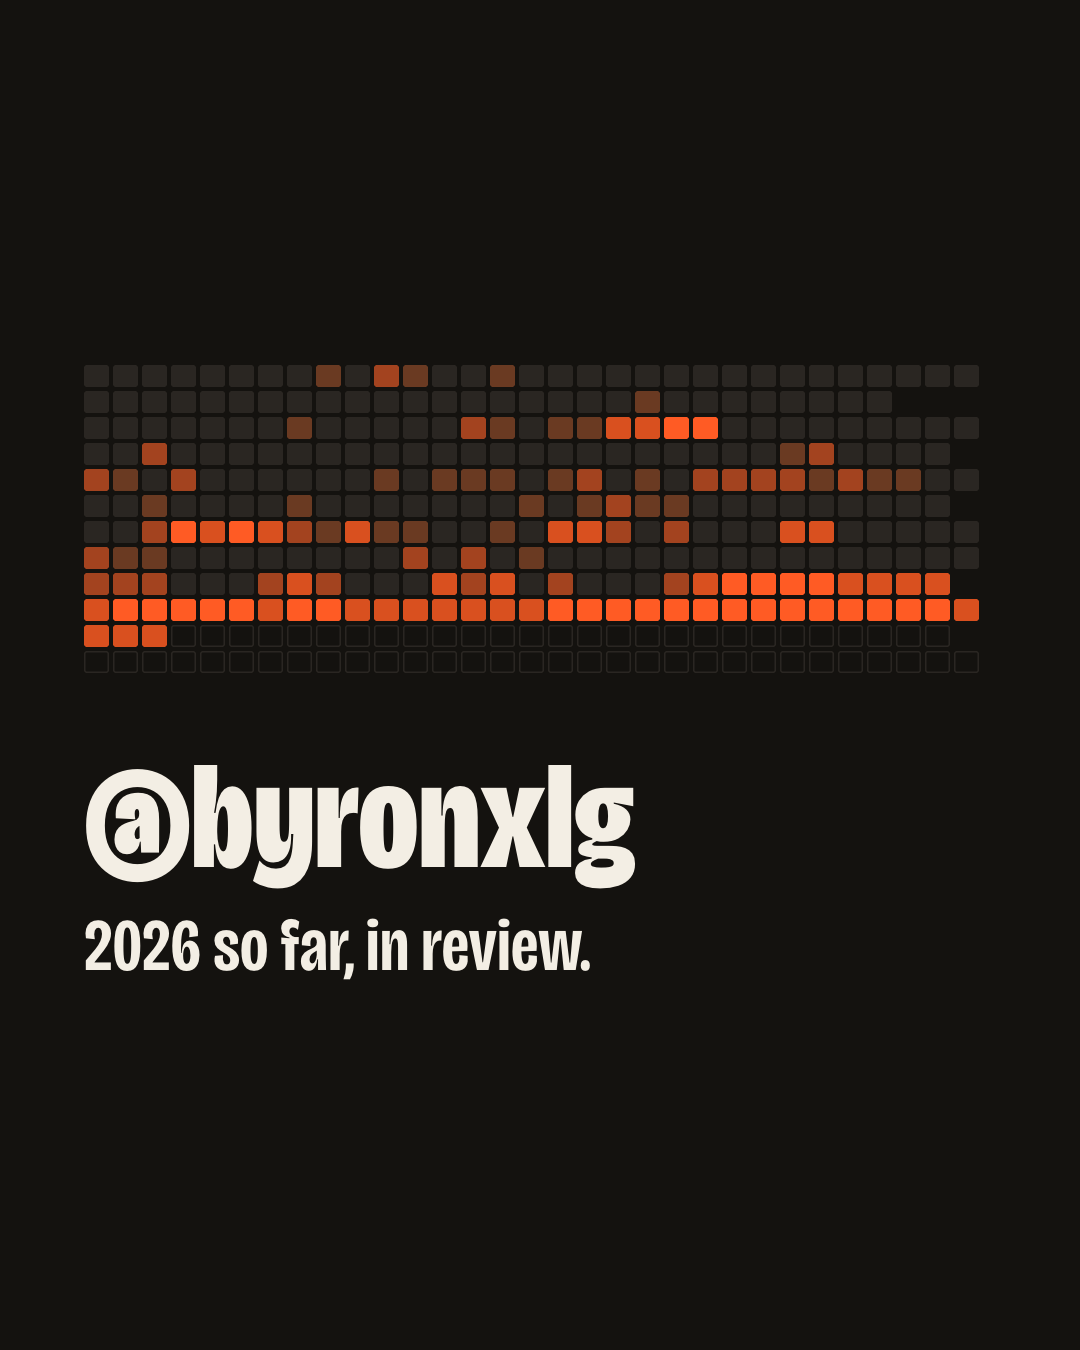
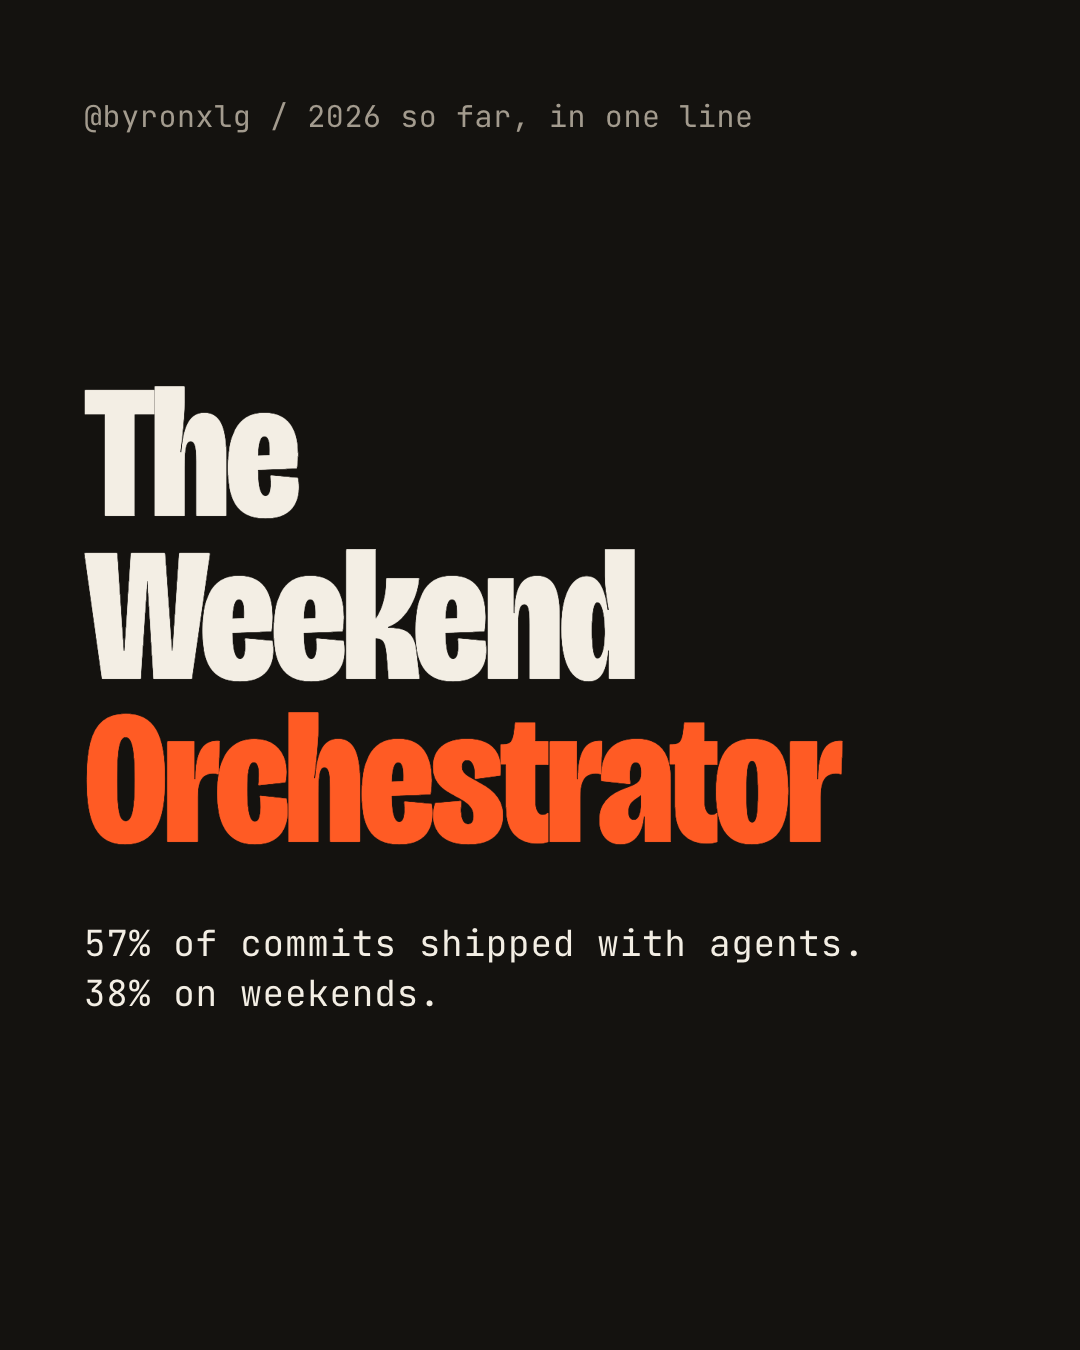
v5: thumbnail is the identity (option A) (#4)
build_thumbnail renders the identity beat as the cover: mono kicker
"@user / <year>, in one line", the archetype name one word a line in
condensed Bricolage with the last word in --signal, and the reason as
one stat a line in mono ink. Title shrinks to fit 912 px for long names.
Falls back to the close still when there is no identity beat. Example
thumbnail regenerated.

diff --git a/skills/github-year-in-review/assets/template.html b/skills/github-year-in-review/assets/template.html
@@ -558,6 +558,34 @@
       .thumb .stack {
         flex: none;
       }
+      /* thumbnail from the identity beat: kicker at the top, the name and its stats centred */
+      .thumb .inner.tid {
+        padding: 96px 84px;
+        justify-content: flex-start;
+      }
+      .tid .sp {
+        flex: 1;
+      }
+      .tid .tk {
+        font-size: 30px;
+        color: var(--muted);
+        letter-spacing: 0.02em;
+      }
+      .tid .tt {
+        font-family: "Bricolage", sans-serif;
+        font-weight: 800;
+        font-stretch: 75%;
+        line-height: 0.86;
+        letter-spacing: -0.02em;
+        white-space: nowrap;
+      }
+      .tid .ts {
+        margin-top: 56px;
+        font-size: 36px;
+        line-height: 1.4;
+        letter-spacing: 0.02em;
+        color: var(--ink);
+      }
     </style>
   </head>
   <body>

diff --git a/skills/github-year-in-review/scripts/build.py b/skills/github-year-in-review/scripts/build.py
@@ -683,20 +683,74 @@ def build(story: dict, out: Path, music: Path | None, cues: Path | None, directi
 
 
 THUMB_SECONDS = 1.0
+THUMB_TITLE = 190      # display size of the identity title on the thumbnail, px
+THUMB_WIDTH = 912      # 1080 less 84 px each side
+THUMB_EM = 0.36        # Bricolage 800 at 75% stretch: average advance per character, em (measured 0.33)
+
+
+def title_lines(name: str, max_lines: int = 5) -> list[str]:
+    """The identity name as display lines: one word a line ("The / Weekend / Orchestrator").
+    Past max_lines, the words before the last are packed two to a line; the last word always
+    stands alone so it can carry the signal colour."""
+    words = name.split()
+    if len(words) <= max_lines:
+        return words
+    head, last = words[:-1], words[-1]
+    return [" ".join(head[i:i + 2]) for i in range(0, len(head), 2)] + [last]
+
+
+def title_size(lines: list[str], base: int = THUMB_TITLE, width: int = THUMB_WIDTH) -> int:
+    """Largest size up to base at which the longest line fits width on one line."""
+    longest = max((len(x) for x in lines), default=1)
+    return min(base, int(width / (THUMB_EM * longest)))
+
+
+def stat_lines(reason: str) -> list[str]:
+    """The identity reason as one sentence a stat: "57% of commits shipped with agents, 38% of
+    commits on weekends." -> ["57% of commits shipped with agents.", "38% on weekends."]
+    (a repeated "of commits" is dropped after the first line)."""
+    parts = [x.strip().rstrip(".") for x in reason.split(", ") if x.strip().rstrip(".")]
+    out, seen = [], False
+    for x in parts:
+        if seen:
+            x = x.replace(" of commits", "", 1)
+        seen = seen or " of commits" in x
+        out.append(x[0].upper() + x[1:] + ".")
+    return out
+
+
+def thumb_identity_html(b: dict, story: dict) -> str:
+    """The thumbnail cover from the identity beat: mono kicker at the top ("@user / <year>, in
+    one line"), the name huge in condensed Bricolage with its last word in --signal, then the
+    stats behind it in mono ink, vertically centred. No label, counter, rail or CTA."""
+    lines = title_lines(b["name"])
+    title = "<br>".join(E(x) for x in lines[:-1])
+    title += ("<br>" if title else "") + f'<span class="signal">{E(lines[-1])}</span>'
+    stats = "<br>".join(E(x) for x in stat_lines(b.get("reason", "")))
+    return (f'<div class="inner tid"><div class="tk">{E("@" + story["user"])} / {E(b["label"])}</div>'
+            f'<div class="sp"></div><div class="tt" style="font-size:{title_size(lines)}px">{title}</div>'
+            + (f'<div class="ts">{stats}</div>' if stats else "") + '<div class="sp"></div></div>')
 
 
 def build_thumbnail(story: dict, out: Path, tpl: str) -> Path:
-    """<out>/thumbnail/: a one-second, motionless composition of the close (year grid, handle,
-    "<year>, in review.") with no label, slide counter, rail or CTA. Snapshot it to thumbnail.png."""
+    """<out>/thumbnail/: a one-second, motionless cover with no label, slide counter, rail or
+    CTA. Made from the identity beat ("The Weekend Orchestrator" and the stats behind it); a
+    story without one falls back to the close (year grid, handle, "<year>, in review.").
+    Snapshot it to thumbnail.png."""
+    ident = next((b for b in story["beats"] if b["id"] == "identity" and b.get("name")), None)
     close = next((b for b in story["beats"] if b["id"] == "close"), None)
-    if close is None:
-        raise ValueError("story has no close beat to make a thumbnail from")
+    if ident is None and close is None:
+        raise ValueError("story has no identity or close beat to make a thumbnail from")
     comp = out / "thumbnail"
     (comp / "assets" / "fonts").mkdir(parents=True, exist_ok=True)
     for f in (ASSETS / "fonts").glob("*.ttf"):
         shutil.copy(f, comp / "assets" / "fonts" / f.name)
-    scene = (f'<section id="s-close" class="clip scene" data-start="0" data-duration="{THUMB_SECONDS}" '
-             f'data-track-index="1">{scene_html(close, story, len(story["beats"]), thumb=True)}</section>')
+    if ident is not None:
+        sid, body = "identity", thumb_identity_html(ident, story)
+    else:
+        sid, body = "close", scene_html(close, story, len(story["beats"]), thumb=True)
+    scene = (f'<section id="s-{sid}" class="clip scene" data-start="0" data-duration="{THUMB_SECONDS}" '
+             f'data-track-index="1">{body}</section>')
     page = re.sub(r"<!--rail-->.*?<!--/rail-->", "", tpl, flags=re.S)
     page = (page.replace("__DURATION__", str(THUMB_SECONDS))
             .replace("__ROOT_CLASS__", "thumb")

diff --git a/tests/test_scripts.py b/tests/test_scripts.py
@@ -222,6 +222,58 @@ class Story(unittest.TestCase):
             self.assertIn("@quiet", thumb)
             self.assertTrue((out / "thumbnail" / "assets" / "fonts" / "JetBrainsMono.ttf").exists())
 
+    def test_thumbnail_is_the_identity(self):
+        """Option A: kicker, the archetype name with its last word in signal, the stats."""
+        with tempfile.TemporaryDirectory() as tmp:
+            out = Path(tmp)
+            story = build.make_story(year_fixture(), build.CTA)
+            ident = next(b for b in story["beats"] if b["id"] == "identity")
+            ident["name"] = "The Weekend Orchestrator"
+            ident["reason"] = "57% of commits shipped with agents, 38% of commits on weekends."
+            build.build(story, out, None, None)
+            thumb = (out / "thumbnail" / "index.html").read_text()
+            self.assertIn('id="s-identity"', thumb)
+            self.assertNotIn('id="s-close"', thumb)
+            self.assertIn(f'@quiet / {ident["label"]}</div>', thumb)
+            self.assertIn('style="font-size:190px">The<br>Weekend<br><span class="signal">Orchestrator</span>', thumb)
+            self.assertIn("57% of commits shipped with agents.<br>38% on weekends.", thumb)
+            for chrome in ('id="rail"', 'class="label"', 'class="cta', 'class="term"', "__"):
+                self.assertNotIn(chrome, thumb.replace("window.__timelines", ""))
+
+    def test_thumbnail_falls_back_to_close(self):
+        with tempfile.TemporaryDirectory() as tmp:
+            out = Path(tmp)
+            story = build.make_story(year_fixture(), build.CTA)
+            story["beats"] = [b for b in story["beats"] if b["id"] != "identity"]
+            build.build(story, out, None, None)
+            thumb = (out / "thumbnail" / "index.html").read_text()
+            self.assertIn('id="s-close"', thumb)
+            self.assertNotIn('class="inner tid"', thumb)
+            self.assertIn("in review.", thumb)
+            self.assertNotIn('class="cta', thumb)
+
+    def test_thumbnail_long_title_fits(self):
+        name = "The Extraordinarily Nocturnal Internationalization Superconductor"
+        lines = build.title_lines(name)
+        self.assertEqual(lines[-1], "Superconductor")
+        size = build.title_size(lines)
+        self.assertLess(size, build.THUMB_TITLE)
+        self.assertLessEqual(build.THUMB_EM * size * max(map(len, lines)), 912)
+        self.assertLessEqual(len(lines) * size * 0.86, 700)  # leaves room for kicker and stats
+        many = build.title_lines("The Very Quiet Late Night Weekend Open Source Reviewer")
+        self.assertLessEqual(len(many), 5)
+        self.assertEqual(many[-1], "Reviewer")
+        self.assertEqual(build.title_size(build.title_lines("The Weekend Orchestrator")), 190)
+        self.assertEqual(build.stat_lines("A 44-day streak."), ["A 44-day streak."])
+        with tempfile.TemporaryDirectory() as tmp:
+            out = Path(tmp)
+            story = build.make_story(year_fixture(), build.CTA)
+            next(b for b in story["beats"] if b["id"] == "identity")["name"] = name
+            build.build(story, out, None, None)
+            thumb = (out / "thumbnail" / "index.html").read_text()
+            self.assertIn(f'style="font-size:{size}px">The<br>Extraordinarily<br>', thumb)
+            self.assertIn('<span class="signal">Superconductor</span>', thumb)
+
 
 if __name__ == "__main__":
     unittest.main()

diff --git a/skills/github-year-in-review/SKILL.md b/skills/github-year-in-review/SKILL.md
@@ -67,7 +67,7 @@ python3 <skill-dir>/scripts/build.py <out>/year.json --out <out> \
 ```
 
 This writes `<out>/story.json` (beats, copy, timings), `<out>/composition/` (the film) and
-`<out>/thumbnail/` (a one-second still of the close for the cover, see step 4). Beats, their
+`<out>/thumbnail/` (a one-second still of the identity for the cover, see step 4). Beats, their
 data, and fallbacks are in [references/story.md](references/story.md). Beats with thin data drop
 out, so a quiet year makes a shorter film, not an empty one.
 
@@ -128,8 +128,12 @@ ffmpeg -y -i year-in-review.mp4 -i poster.jpg \
   -c:a aac -b:a 160k -movflags +faststart tmp.mp4 && mv tmp.mp4 year-in-review.mp4
 ```
 
-Thumbnail: the close (year grid, handle, "<year>, in review.") as a clean still, with no slide
-counter, hash label, footer rail or CTA. Upload it as the video's custom thumbnail on LinkedIn
+Thumbnail: the identity as a cover. A mono kicker at the top ("@<user> / <year>, in one line"),
+the archetype name huge in condensed Bricolage, one word a line with the last word in signal
+orange, then the stats behind it in mono ink ("57% of commits shipped with agents." / "38% on
+weekends."), all from `story.json`; no slide counter, hash label, footer rail or CTA. Long names
+shrink to fit 1080 px. A story with no identity beat gets the close (year grid, handle,
+"<year>, in review.") instead. Upload it as the video's custom thumbnail on LinkedIn
 (it matches the video's 4:5 aspect ratio, which LinkedIn expects) and use it anywhere a cover
 image is asked for:
 
@@ -140,7 +144,7 @@ npx hyperframes snapshot thumbnail --at 0.5 --no-end -o thumbnail/shots
 cp thumbnail/shots/frame-00-at-0.5s.png thumbnail.png
 ```
 
-**Gate:** `year-in-review.mp4` is H.264, 1080x1350, under 50 MB, 25-75 s (build caps at 70 plus chapter cards); `poster.jpg` exists; `thumbnail.png` is 1080x1350 and you have looked at it (no counters, no rail, nothing clipped).
+**Gate:** `year-in-review.mp4` is H.264, 1080x1350, under 50 MB, 25-75 s (build caps at 70 plus chapter cards); `poster.jpg` exists; `thumbnail.png` is 1080x1350 and you have looked at it (no counters, no rail, the name on its lines and nothing clipped).
 
 Write `<out>/share-copy.txt`: two or three plain sentences in the user's voice, built from the
 strongest true facts (the archetype, one number, one project). No hashtag wall; at most two.

diff --git a/docs/design.md b/docs/design.md
@@ -145,6 +145,17 @@ thumbnail, maybe the final screen but cleaner so no slide numbers".
   into `thumbnail.png` (1080x1350, the video's 4:5 for LinkedIn's custom thumbnail). Frame 0 of
   the video stays the hook (the post when it autoplays).
 
+## v5: the thumbnail is the identity (2026-11-04)
+
+Byron picked option A ("The Weekend Orchestrator", `a3-identity` on the thumbnail board) over
+the close. `build.py:build_thumbnail` now renders the identity beat: kicker "@<user> / <year>,
+in one line" in mono muted at the top, the name in Bricolage 800 at 75% stretch, one word a line
+(names past five words pack two a line before the last), the last word in `--signal`, then the
+reason split into one sentence a stat in mono ink, with a repeated "of commits" dropped after
+the first. Title size is 190 px, shrunk so the longest line fits 912 px at about 0.36 em a
+character (`title_size`). Everything comes from `story.json`, so edits to the name or reason
+carry through. A story with no identity beat falls back to the v4 close still.
+
 ## Archetype
 
 Adjective from rhythm, noun from output, each with a one-line reason shown under the name:

diff --git a/README.md b/README.md
@@ -74,8 +74,8 @@ cd .. && npx hyperframes snapshot thumbnail --at 0.5 --no-end -o thumbnail/shots
   && cp thumbnail/shots/frame-00-at-0.5s.png thumbnail.png   # 1080x1350 cover, no chrome
 ```
 
-Outputs: `year-in-review.mp4` (1080x1350), `thumbnail.png` (1080x1350, the closing screen
-without counters, rail or CTA; upload it as LinkedIn's custom video thumbnail), `poster.jpg`
+Outputs: `year-in-review.mp4` (1080x1350), `thumbnail.png` (1080x1350, the identity as a cover:
+"The Weekend Orchestrator" and the stats behind it, without counters, rail or CTA; upload it as LinkedIn's custom video thumbnail), `poster.jpg`
 (frame 0, baked into the video), `share-copy.txt`.
 
 ## Privacy and honesty
